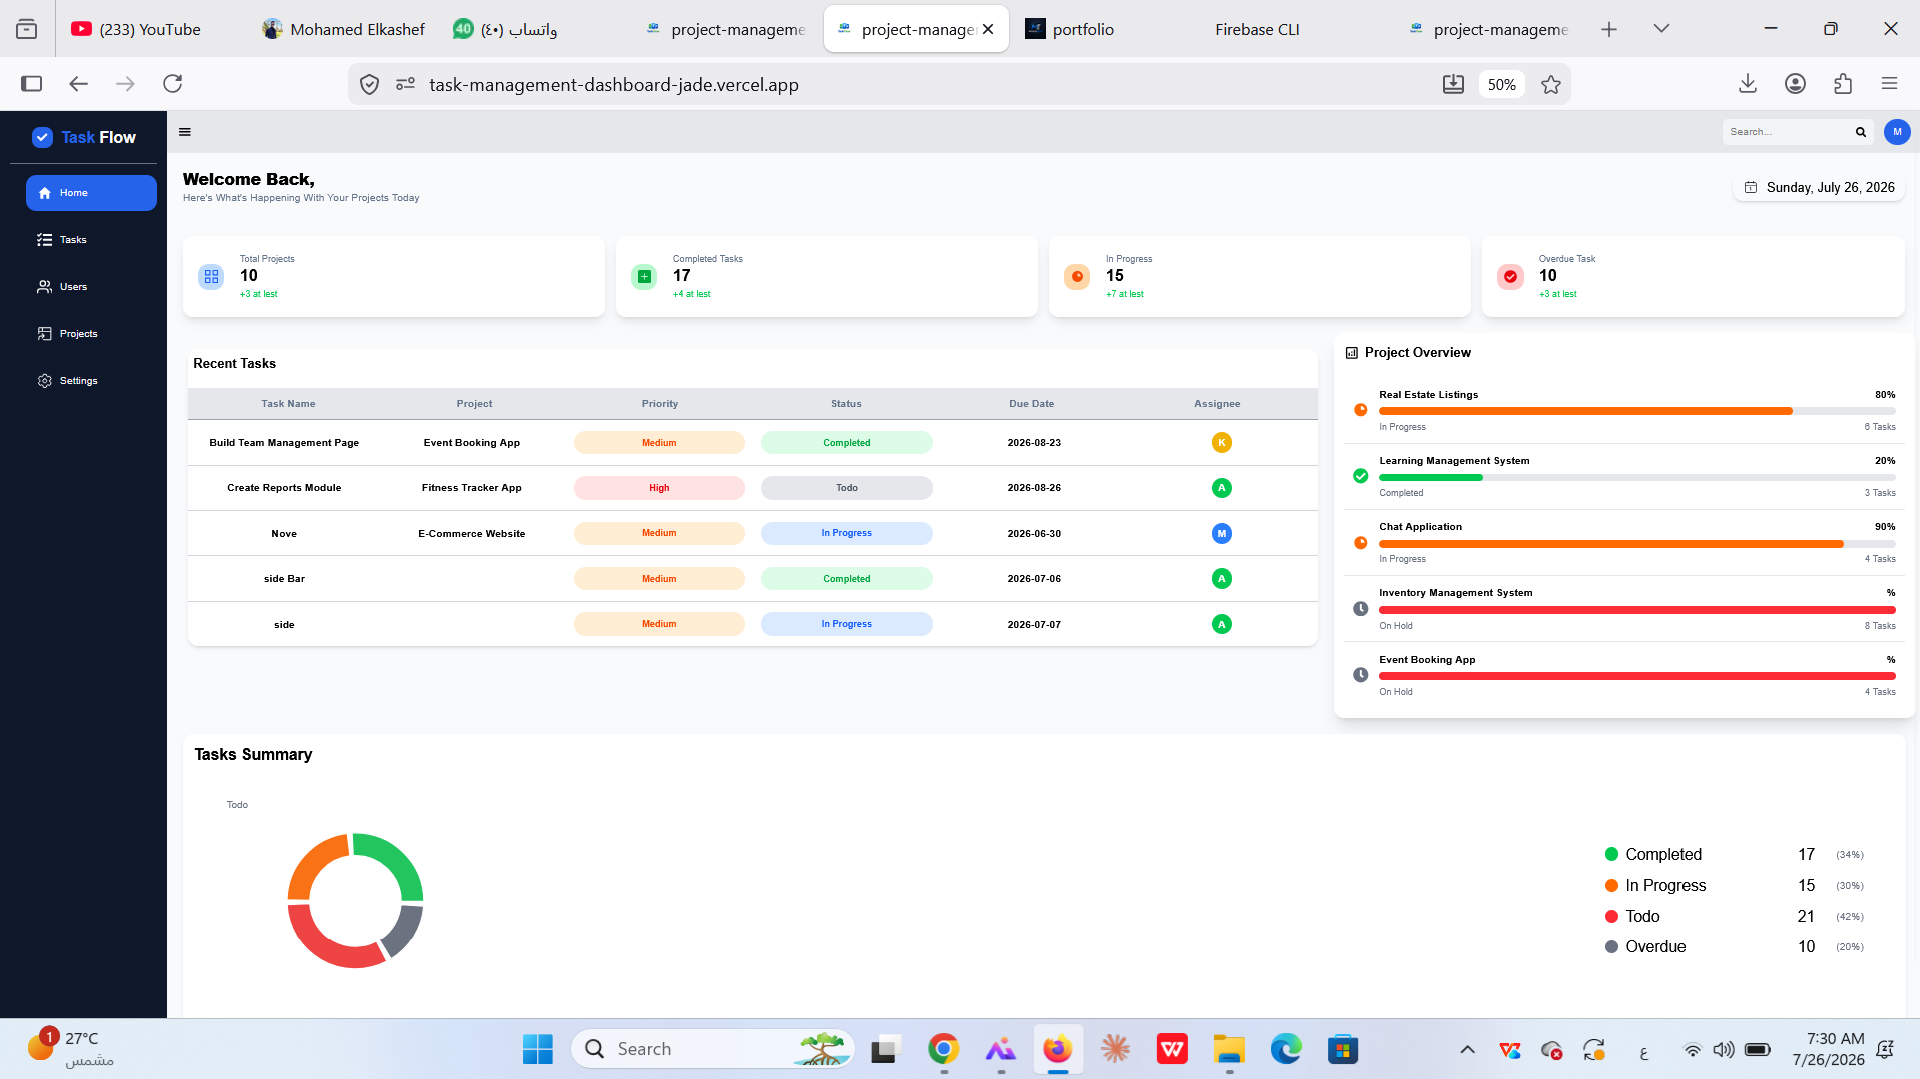
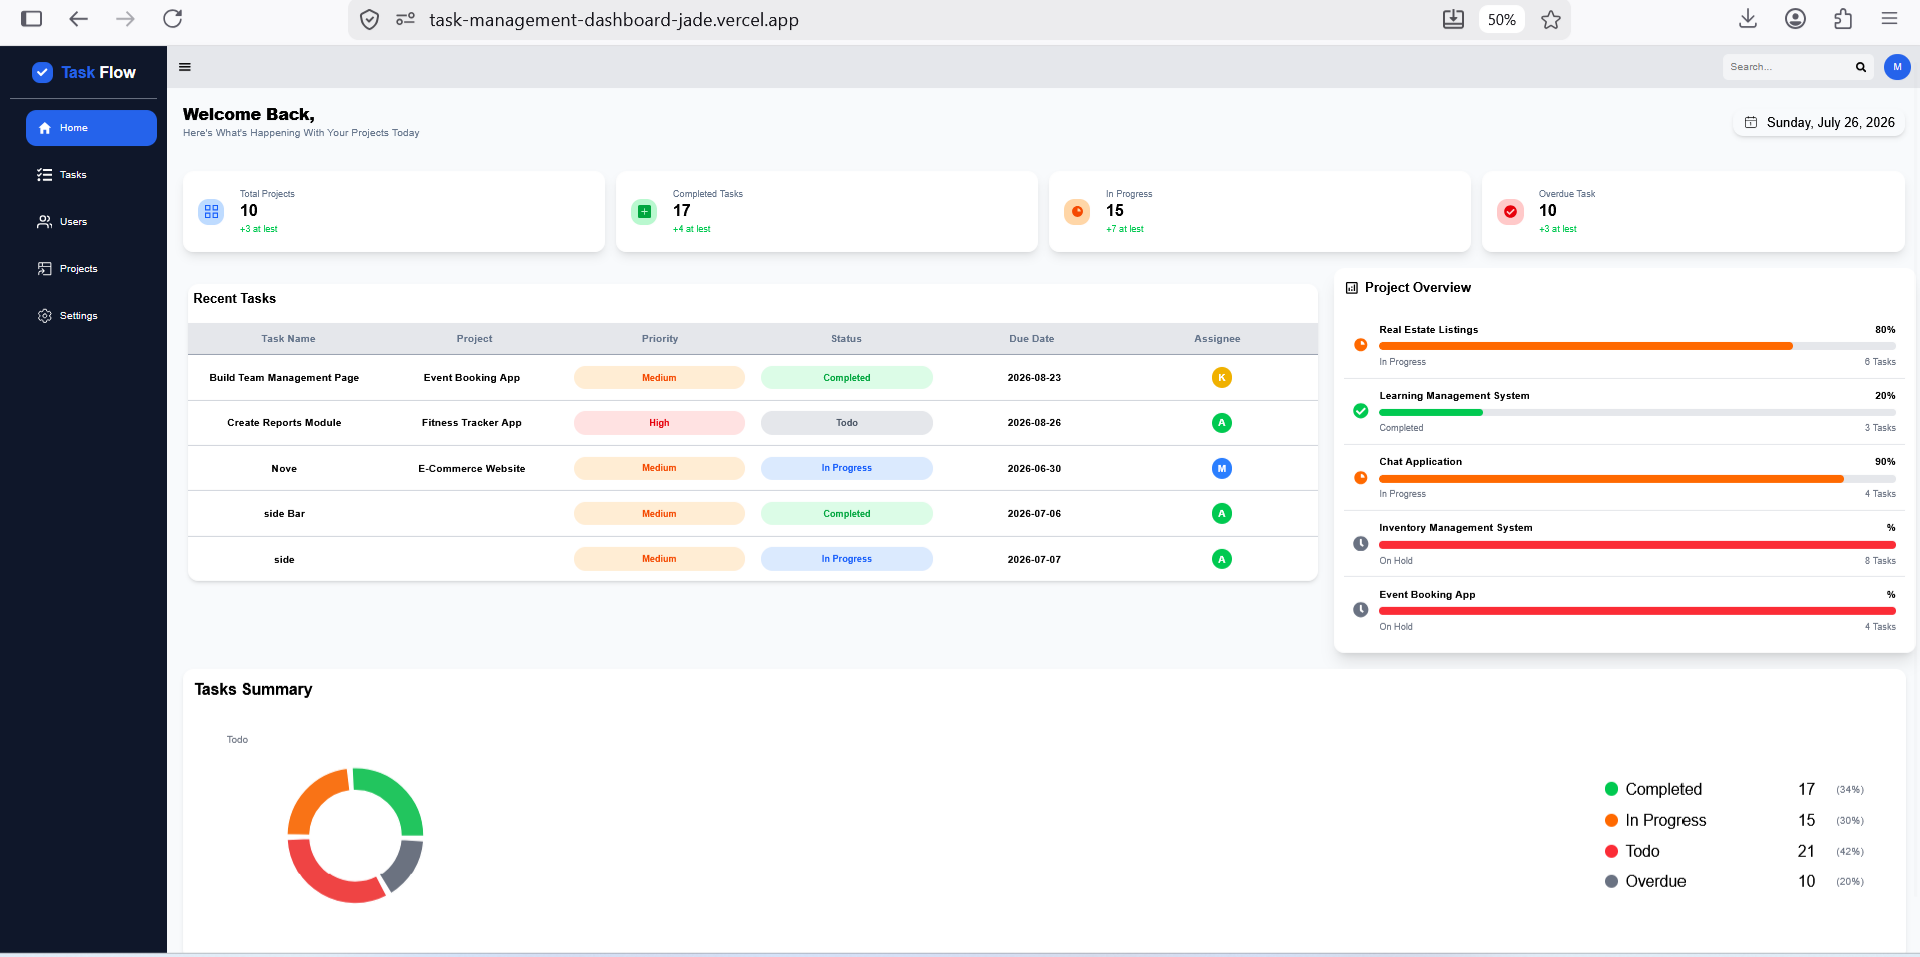
Update portfolio

diff --git a/src/sections/Projects.jsx b/src/sections/Projects.jsx
@@ -14,7 +14,7 @@ const projects = [
   title: "Task Management Dashboard",
   description:
     "Built a modern project and task management dashboard featuring task tracking, project organization, user management, interactive analytics charts, and CRUD functionality. Implemented responsive design, Redux Toolkit for state management, and a clean user experience optimized for productivity.",
-  image: "/public/project-dashboard.png",
+  image: "/project-dashboard.png",
   tags: [
     "React",
     "Redux Toolkit",
